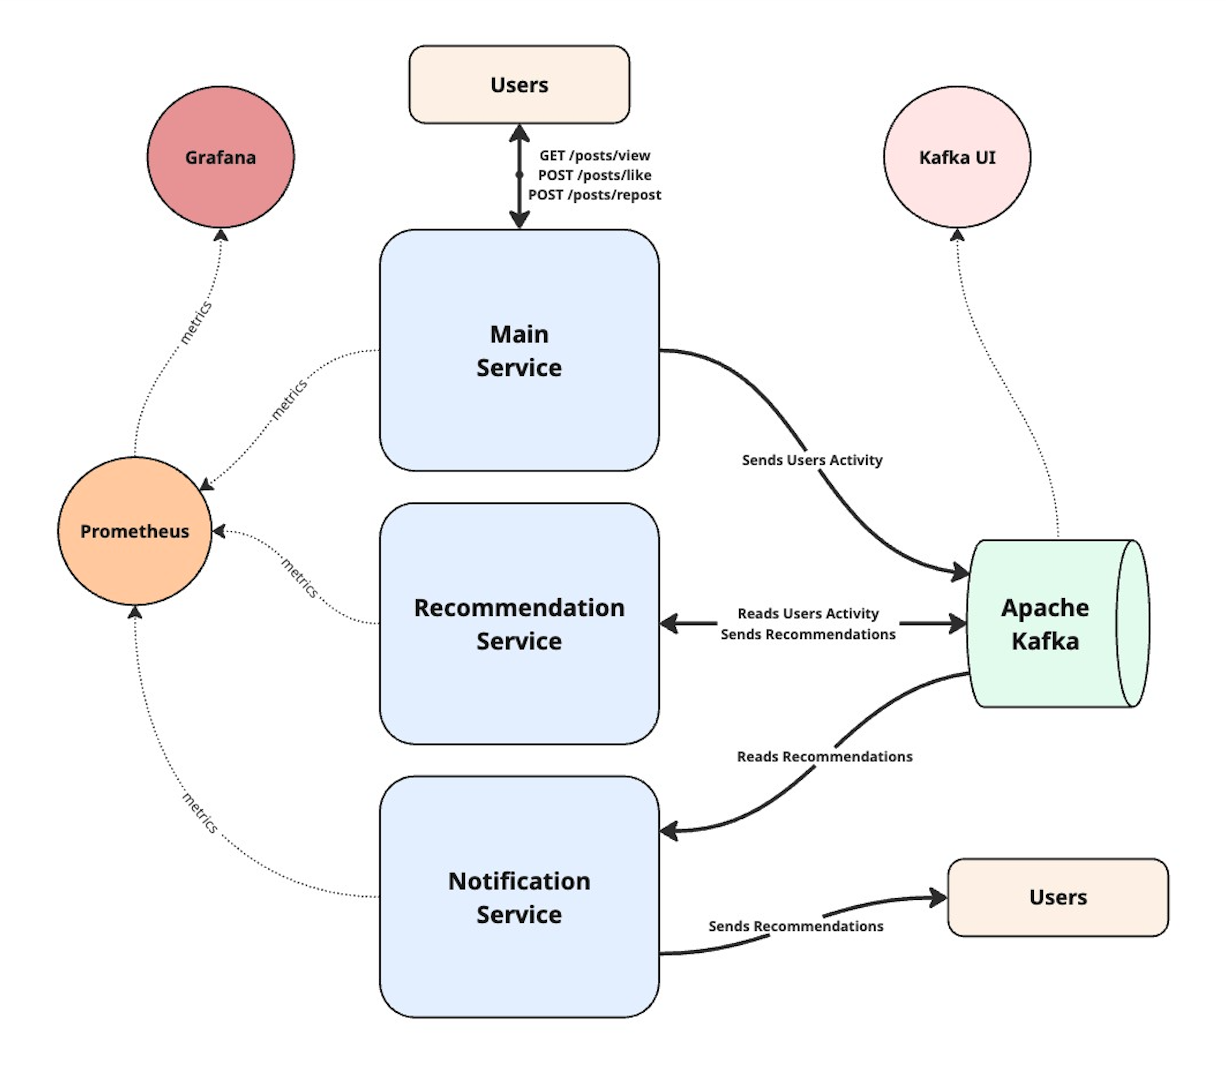
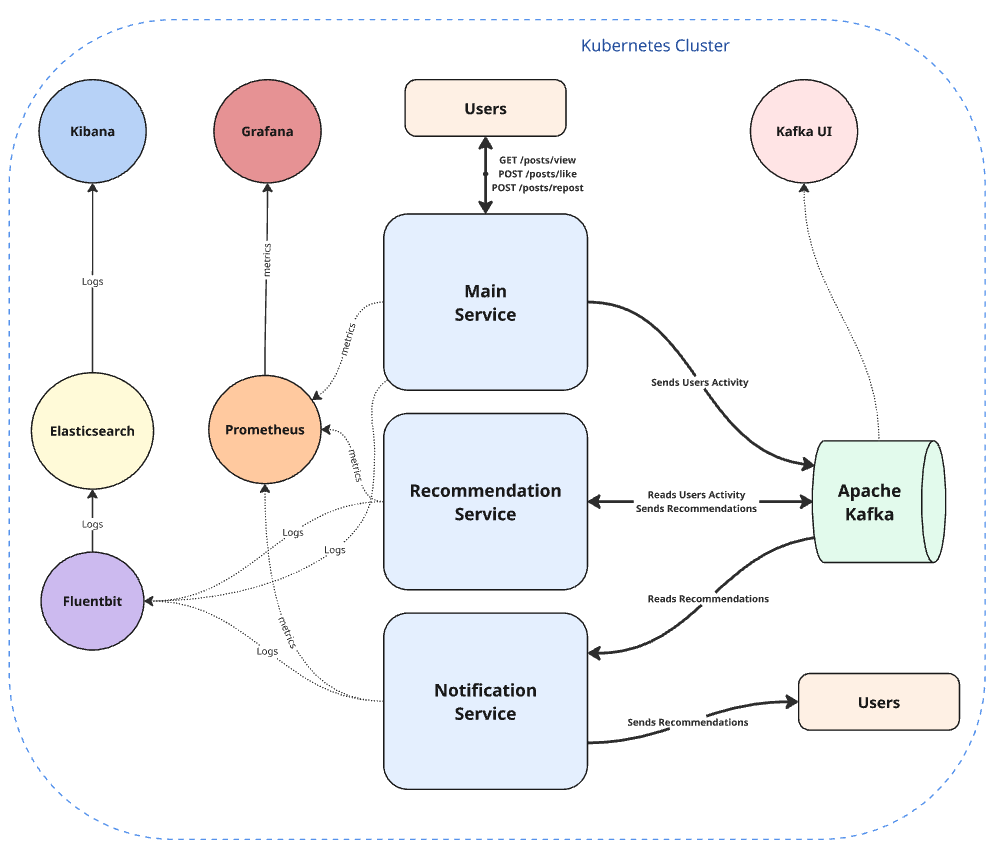
Kubernetes: logs collection using EFK stack (#21)
* Kubernetes: logs collection using EFK stack

* Image size

* Image size

* List format

* protocol

diff --git a/README.md b/README.md
@@ -2,27 +2,44 @@
 
 The system consisting of several microservices and a Kafka broker, emulating the operation of a recommendation system (creating/processing recommendations based on users activity).
 
-This project focuses not on business logic and code, but on the system as a whole, the interaction between components, and the infrastructure.
+This project focuses not on business logic and code, but on the system as a whole, the interaction between components and the infrastructure.
 
-<img src="docs/images/recommendation_system_diagram.png" alt="drawing" width="70%"/>
+The entire system can be run using Docker or in a Kubernetes cluster. Prometheus and Grafana are used to store the metrics. Elasticsearch, Fluentbit and Kibana (EFK stack) are used for log collection, storage and analysis.
+
+<img src="docs/images/recommendation_system_diagram.png" alt="drawing" width="80%"/>
+
+## Technologies and Tools
+1. Java 25 and Spring Boot 4 for Microservices
+2. Docker Compose
+3. Kubernetes
+4. Apache Kafka
+5. Kafka GUI
+6. Prometheus and Grafana for metrics
+7. Elasticsearch, Fluentbit, Kibana (EFK stack) for logs
 
 ## System Components
 
-### Main Service
+<details style="border: 2px solid #336699; padding: 10px; background-color: #f0f8ff; border-radius: 5px;">
+<summary> <strong> Main Service </strong> </summary>
+
 ###### Technology
 Java 25 / Spring Boot 4 Microservice
 ###### Description
 Has few REST endpoints in order to emulate users activity:
-> GET localhost:8080/posts/view
+> GET /posts/view
 
-> POST localhost:8080/posts/like
+> POST /posts/like
 
-> POST localhost:8080/posts/repost
+> POST /posts/repost
 
 When these endpoints are executed it sends messages into `recommendation-system.users-activity` Kafka topic with specific key (`view`, `like`, `repost`)
 in order to separate them by partition.
 
-### Recommendation Service
+</details>
+
+<details style="border: 2px solid #336699; padding: 10px; background-color: #f0f8ff; border-radius: 5px;">
+<summary> <strong> Recommendation Service </strong> </summary>
+
 ###### Technology
 Java 25 / Spring Boot 4 Microservice
 ###### Description
@@ -31,7 +48,11 @@ Emulates the generation of recommendations for users:
 - Generates recommendations with different types and
 - Sends messages with some information about recommendations to different partitions of a `recommendation-system.recommendations` Kafka topic.
 
-### Notification Service
+</details>
+
+<details style="border: 2px solid #336699; padding: 10px; background-color: #f0f8ff; border-radius: 5px;">
+<summary> <strong> Notification Service </strong> </summary>
+
 ###### Technology
 Java 25 / Spring Boot 4 Microservice
 ###### Description
@@ -39,7 +60,11 @@ Emulates the generation and sending of notifications to users based on recommend
 - Reads recommendations from the `recommendation-system.recommendations` Kafka topic
 - 'Sends' notifications about recommendations to users.
 
-### Kafka Broker
+</details>
+
+<details style="border: 2px solid #336699; padding: 10px; background-color: #f0f8ff; border-radius: 5px;">
+<summary> <strong> Kafka Broker </strong> </summary>
+
 ###### Technology
 A Docker container based on `apache/kafka:4.1.0` image
 ###### Description
@@ -47,32 +72,70 @@ Has few topics:
 - `recommendation-system.users-activity` with 3 partitions for users activity types: views, likes, reposts;
 - `recommendation-system.recommendations` with 3 partitions for different recommendations: news, new friends, interesting blog posts.
 
-### Kafka UI
+</details>
+
+<details style="border: 2px solid #336699; padding: 10px; background-color: #f0f8ff; border-radius: 5px;">
+<summary> <strong> Kafka GUI </strong> </summary>
+
 ###### Technology
 A Docker container based on `ghcr.io/kafbat/kafka-ui:v1.4.2` image
 ###### Description
-UI for Apache Kafka message broker is available at:
-> localhost:8083
+UI for Apache Kafka message broker
 
-### Prometheus
+</details>
+
+<details style="border: 2px solid #336699; padding: 10px; background-color: #f0f8ff; border-radius: 5px;">
+<summary> <strong> Prometheus </strong> </summary>
+
 ###### Technology
 A Docker container based on `prom/prometheus:v3.9.1` image
-###### Description
-Prometheus becomes available after starting services using Docker Compose:
-> localhost:9090
 
-### Grafana
+</details>
+
+<details style="border: 2px solid #336699; padding: 10px; background-color: #f0f8ff; border-radius: 5px;">
+<summary> <strong> Grafana </strong> </summary>
 
 ###### Technology
 A Docker container based on `grafana/grafana:12.3.2` image
 ###### Description
-Grafana becomes available after starting services using Docker Compose:
-> localhost:3000
+Allows to analyse metrics
+
+</details>
+
+<details style="border: 2px solid #336699; padding: 10px; background-color: #f0f8ff; border-radius: 5px;">
+<summary> <strong> Elasticsearch </strong> </summary>
+
+###### Technology
+A Docker container based on `elasticsearch:9.4.0` image
+###### Description
+Stores logs. Runs only in Kubernetes cluster
+
+</details>
+
+<details style="border: 2px solid #336699; padding: 10px; background-color: #f0f8ff; border-radius: 5px;">
+<summary> <strong> Kibana </strong> </summary>
+
+###### Technology
+A Docker container based on `kibana:9.4.0` image
+###### Description
+Allows to view and analyze logs stored in Elasticsearch
+
+</details>
+
+<details style="border: 2px solid #336699; padding: 10px; background-color: #f0f8ff; border-radius: 5px;">
+<summary> <strong> Fluentbit </strong> </summary>
+
+###### Technology
+A Docker container based on `fluent/fluent-bit:5.0` image
+###### Description
+Collects logs from containers and sends them to Elasticsearch
+
+</details>
 
 ## Running the System in Kubernetes cluster using Minikube
 ### Prerequisites
 1. Docker should be installed
-2. Install Minikube and run with Docker driver
+2. Install and run Minikube
 3. Run `minikube addons enable ingress` command
 4. Build Project's images (see "Running the System using the Docker Compose" below)
 5. Load that images into Minikube: `minikube image load <image>`
@@ -84,9 +147,10 @@ Grafana becomes available after starting services using Docker Compose:
 Note: On Linux use minikube ip address returned from `minikube ip` command instead of `127.0.0.1`
 
 After that the System components are available in a browser by:
-- https://kafka-ui.recommendation-system.dev/ (Kafka UI)
-- https://grafana.recommendation-system.dev/ (Grafana)
-- https://recommendation-system.dev/ (Main Service)
+- http://kafka-ui.recommendation-system.dev/ (Kafka UI)
+- http://grafana.recommendation-system.dev/ (Grafana)
+- http://kibana.recommendation-system.dev/ (Kibana)
+- http://recommendation-system.dev/ (Main Service)
 
 ## Running the System using the Docker Compose
 
